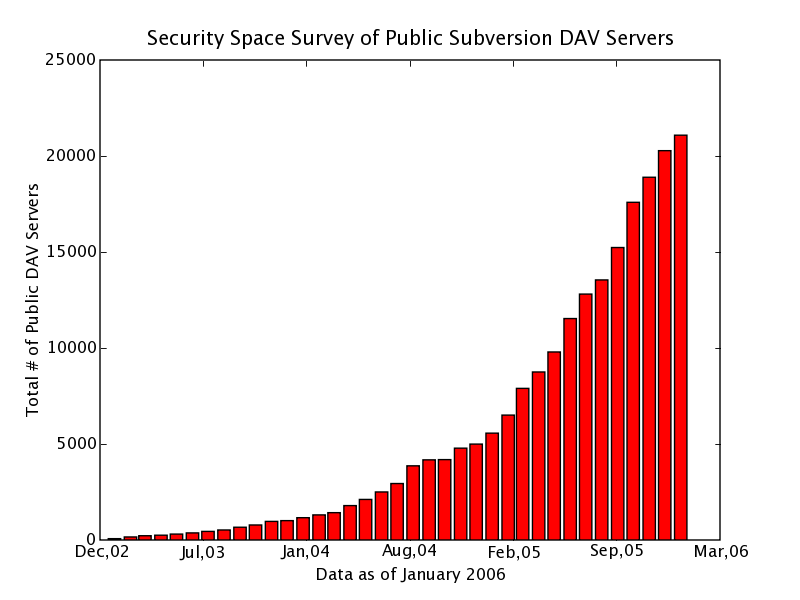
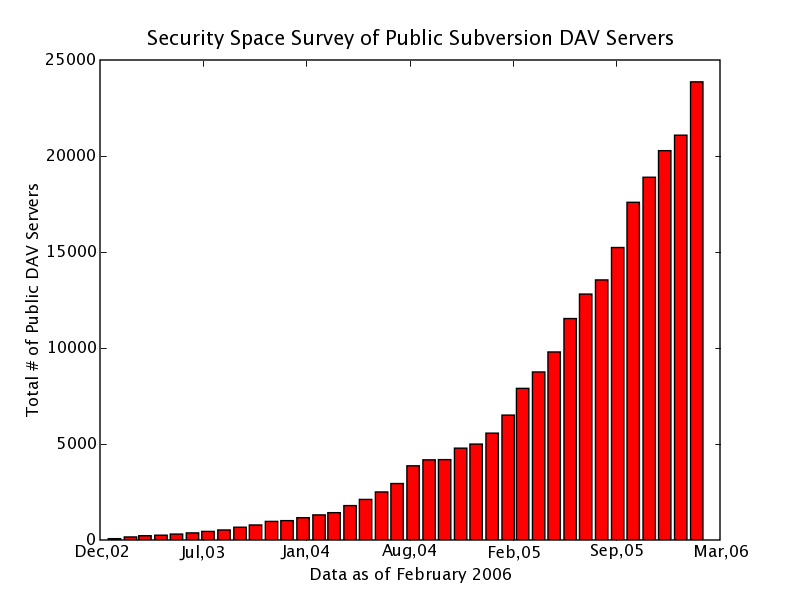
Update super-cool uber-swank graph of public Subversion DAV servers. 10.59% increase in Jan 2006!  Woo-hoo!
* tools/dev/graph-dav-servers.py,
  www/images/svn-dav-securityspace-survey.png,
  www/svn-dav-securityspace-survey.html: Updated to Feb 1, 2006.

git-svn-id: http://svn.apache.org/repos/asf/subversion/trunk@858422 13f79535-47bb-0310-9956-ffa450edef68

Changed region(s): [[0.8438, 0.12, 0.9062, 0.9], [0.375, 0.93, 0.6562, 0.99]]

diff --git a/www/svn-dav-securityspace-survey.html b/www/svn-dav-securityspace-survey.html
@@ -33,12 +33,13 @@ the world at a given time.</p>
 <div style="text-align: center">
 <img src="images/svn-dav-securityspace-survey.png" alt="" />
 
-<p>This information is taken from the <a href="http://www.securityspace.com/s_survey/data/man.200509/apachemods.html?mod=U1ZO">Security Space Apache Modules
+<p>This information is taken from the <a href="http://www.securityspace.com/s_survey/data/man.200601/apachemods.html?mod=U1ZO">Security Space Apache Modules
 Survey</a>.  Thanks Security Space!</p>
 
 <table style="margin-left: auto; margin-right: auto;" border="0"
   cellpadding="5" cellspacing="0">
   <tr><th>Date</th><th># Servers</th></tr>
+  <tr><td>February 2006</td><td style="text-align: right">23,861</td></tr>
   <tr><td>January 2006</td><td style="text-align: right">21,084</td></tr>
   <tr><td>December 2005</td><td style="text-align: right">20,278</td></tr>
   <tr><td>November 2005</td><td style="text-align: right">18,893</td></tr>

diff --git a/tools/dev/graph-dav-servers.py b/tools/dev/graph-dav-servers.py
@@ -56,7 +56,8 @@ STATS = """1/1/2003       70
 10/1/2005              17588
 11/1/2005              18893
 12/1/2005              20278
-1/1/2006               21084"""
+1/1/2006               21084
+2/1/2006               23861"""
 
 
 def get_date(raw_date):
